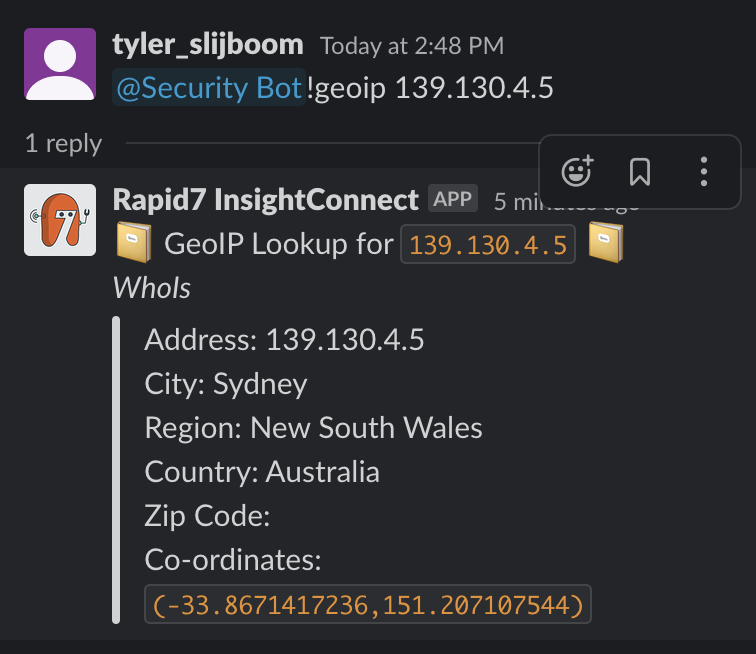
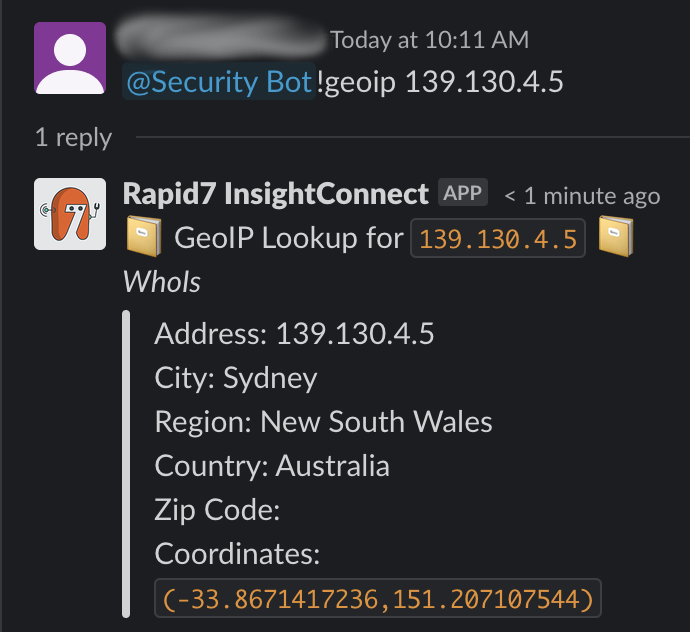
Included more PR feedback, and updated images to match.  Also obfuscated usernames in slack images

diff --git a/workflows/GeoIP_Lookup_with_Slack/help.md b/workflows/GeoIP_Lookup_with_Slack/help.md
@@ -9,7 +9,7 @@ Sample Slack Trigger Commands:
 
 # Key Features
 
-* Location Lookup on an IP Address from Slack
+* Geo-location lookup on an IP Address from Slack
 
 # Requirements
 
